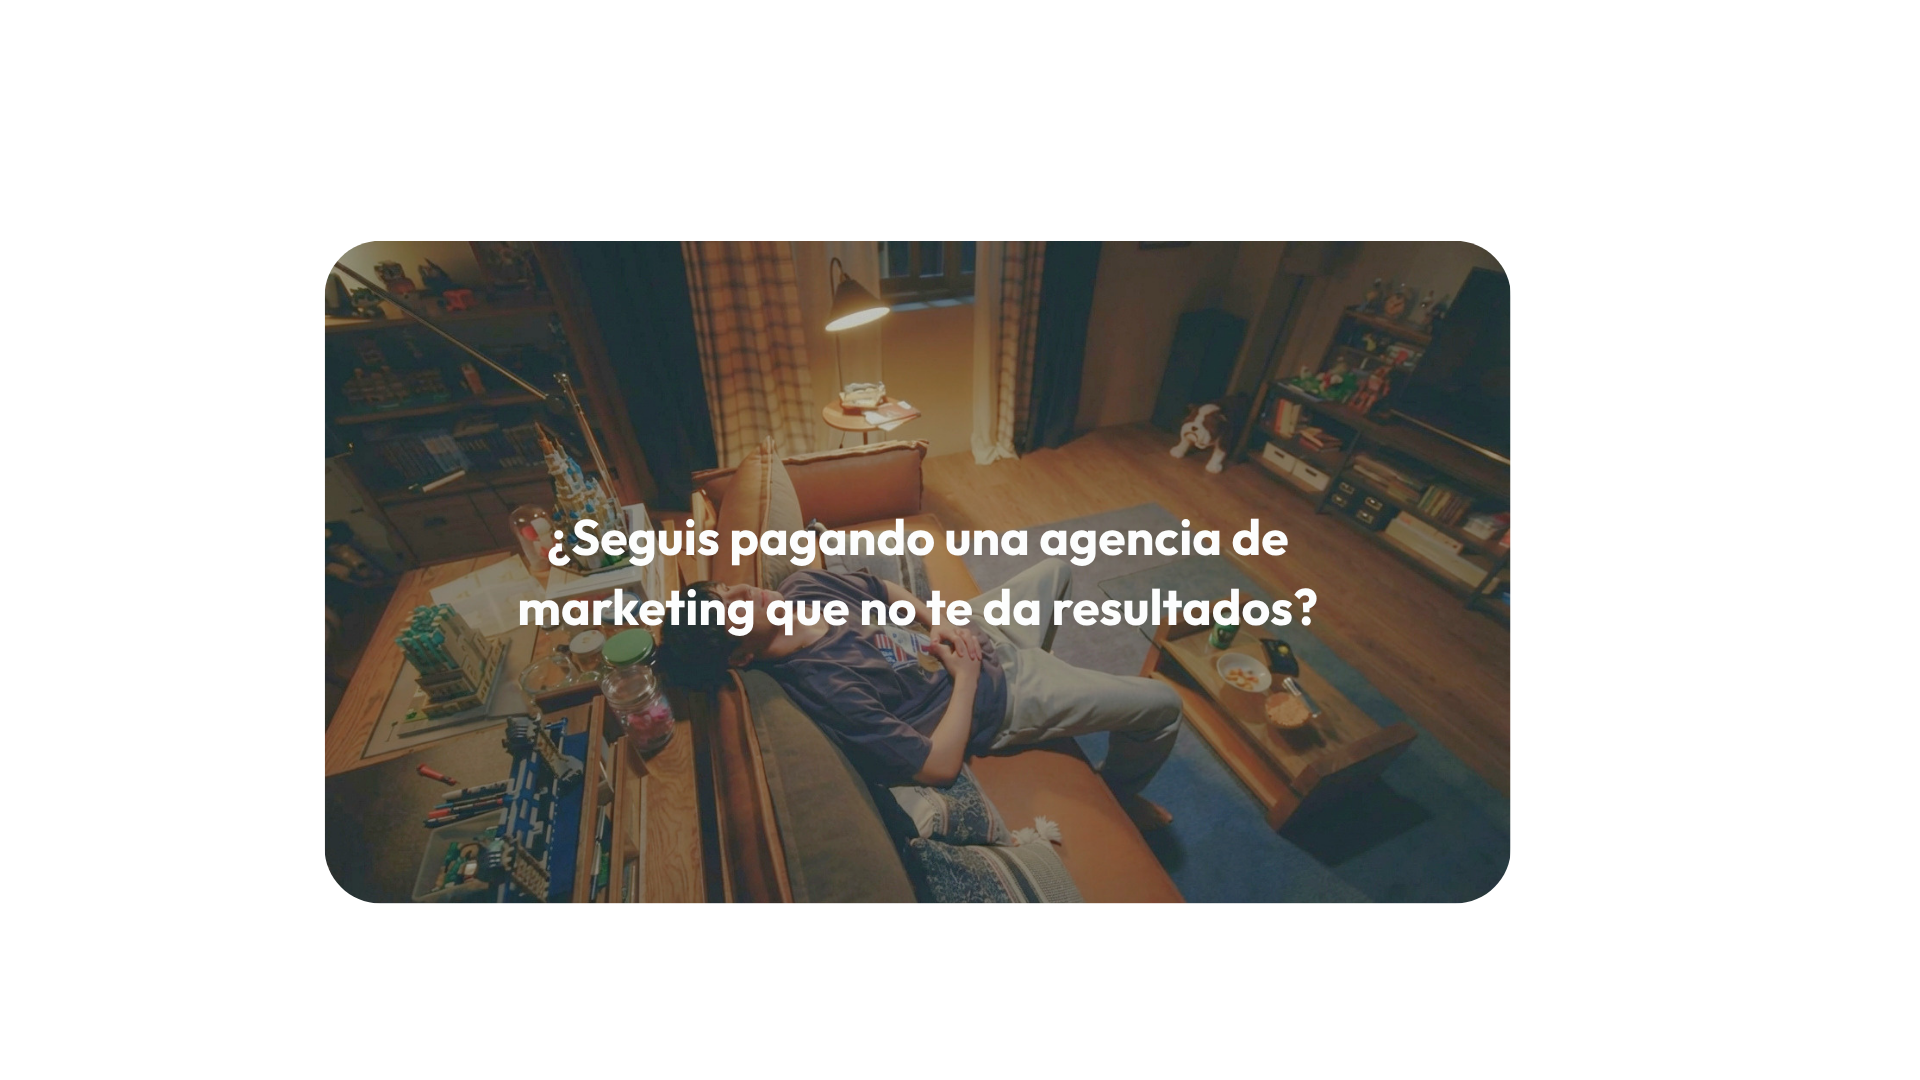
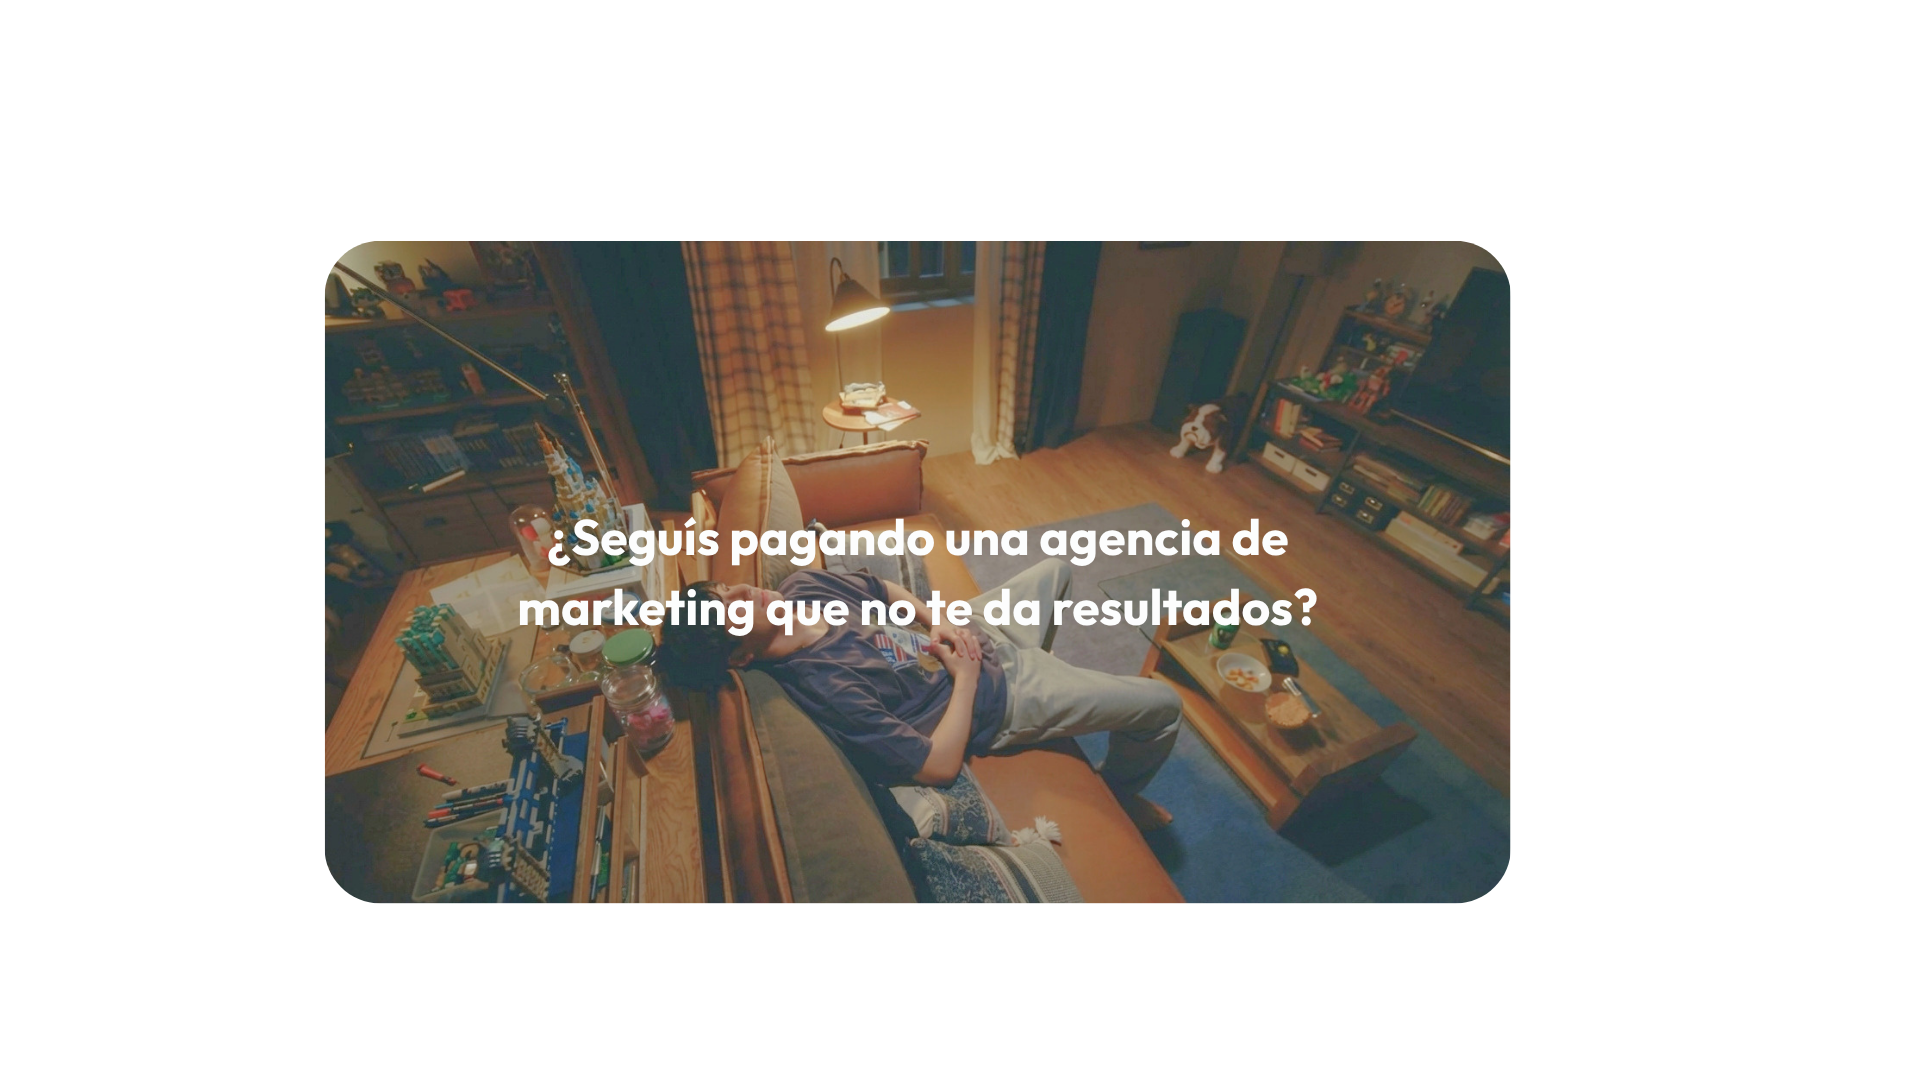
Mobile UI: larger problem cards, mobile-specific art, hero freeze
- Problem cards (Canva + Agencia): render distinct pre-baked images on
  mobile vs desktop. Mobile uses /card-1-mobile.png and /card-2-mobile.png
  (title baked into the image, no overlay) via md:hidden / hidden md:block.
  Desktop keeps the 16/9 photos with the title as a text overlay.
- Swap the sticky container from aspect-square with horizontal padding to
  aspect-[2/3] edge-to-edge (px-0 on mobile, px-6 from sm). On a 375-wide
  viewport the card goes from ~343x343 to ~375x562 — roughly 30% more
  pixels and a much stronger visual.
- Move the desktop +40px horizontal offset from an inline style to a
  md:translate-x-10 class so it no longer applies on mobile. The card now
  sits genuinely centered on narrow viewports.
- Hero video on mobile: pause 0.5s before the natural end in the
  onTimeUpdate handler so the final text frame stays on screen instead of
  fading to black. Desktop is unchanged.
- Also: replace card-2.png with a corrected-accent copy ("Seguís"), no
  layout implications.

diff --git a/frontend/src/app/page.tsx b/frontend/src/app/page.tsx
@@ -398,25 +398,36 @@ function ProblemCardsStack() {
       className="-mt-12 md:-mt-24"
       style={{ height: "200vh" }}
     >
-      <div className="sticky top-0 flex h-screen w-full items-center justify-center px-4 sm:px-6 md:px-3">
-        <div
-          className="relative w-full max-w-[1800px]"
-          style={{ transform: "translateX(40px)" }}
-        >
-          {/* ── Card 1 (Canva) ── */}
+      <div className="sticky top-0 flex h-screen w-full items-center justify-center px-0 sm:px-6 md:px-3">
+        <div className="relative w-full max-w-[1800px] md:translate-x-10">
+          {/* ── Card 1 (Canva) ──
+              Mobile uses a pre-baked image (title already rendered in the PNG);
+              desktop uses the clean photo + a text overlay. Both fill the same
+              motion.div so the scroll-linked scale still applies uniformly. */}
           <motion.div
             style={{ scale: card1Scale }}
-            className="relative z-10 aspect-square overflow-hidden rounded-[2rem] md:aspect-[16/9]"
+            className="relative z-10 aspect-[2/3] overflow-hidden rounded-[2rem] md:aspect-[16/9]"
           >
+            {/* Mobile (< md): title baked into the image, no overlay needed */}
+            <Image
+              src="/card-1-mobile.png"
+              alt="Cansado de gastar mil horas en Canva haciendo contenido para tu marca"
+              fill
+              sizes="100vw"
+              className="object-cover md:hidden"
+              priority
+            />
+            {/* Desktop (md+): clean photo, title rendered as an overlay */}
             <Image
               src="/card-canva.png"
               alt="Cansado de gastar mil horas en Canva haciendo contenido para tu marca"
               fill
               sizes="(max-width: 1800px) 100vw, 1800px"
-              className="object-cover"
+              className="hidden object-cover md:block"
               priority
             />
-            <div className="absolute inset-0 flex flex-col items-center justify-center gap-6 px-6 text-center sm:gap-8 md:gap-10">
+            {/* Text overlay — desktop only (mobile has it baked in) */}
+            <div className="absolute inset-0 hidden flex-col items-center justify-center gap-6 px-6 text-center sm:gap-8 md:flex md:gap-10">
               <div className="h-[22px] shrink-0" aria-hidden="true" />
               <h3 className="font-heading max-w-3xl translate-y-[5px] text-lg font-bold leading-[1.2] tracking-tight text-white sm:text-xl md:text-2xl lg:text-3xl xl:text-4xl">
                 ¿Cansado de gastar mil horas en Canva
@@ -439,17 +450,29 @@ function ProblemCardsStack() {
             </div>
           </motion.div>
 
-          {/* ── Card 2 — fully covers card 1, centered in screen ── */}
+          {/* ── Card 2 — fully covers card 1, centered in screen.
+              Mobile + desktop use different pre-baked images so the title
+              reads properly at each aspect ratio. */}
           <motion.div
             style={{ y: card2Y, opacity: card2Opacity }}
             className="absolute inset-0 z-20 overflow-hidden rounded-[2rem]"
           >
+            {/* Mobile (< md): taller 2/3 aspect, image sized for it */}
+            <Image
+              src="/card-2-mobile.png"
+              alt="Seguís pagando una agencia de marketing que no te da resultados"
+              fill
+              sizes="100vw"
+              className="object-cover md:hidden"
+              priority
+            />
+            {/* Desktop (md+): 16/9 aspect with the widescreen image */}
             <Image
               src="/card-2.png"
               alt="Seguís pagando una agencia de marketing que no te da resultados"
               fill
               sizes="(max-width: 1800px) 100vw, 1800px"
-              className="object-cover"
+              className="hidden object-cover md:block"
               priority
             />
           </motion.div>
@@ -1087,8 +1110,18 @@ export default function Home() {
             playsInline
             preload="auto"
             onTimeUpdate={(e) => {
-              if (e.currentTarget.currentTime >= 11 && !showHeroCTA) {
+              const video = e.currentTarget;
+              if (video.currentTime >= 11 && !showHeroCTA) {
                 setShowHeroCTA(true);
+              }
+              // On mobile, pause 0.5s before the natural end so the final
+              // text frame stays visible (otherwise it fades out).
+              if (
+                isMobile &&
+                video.duration &&
+                video.currentTime >= video.duration - 0.5
+              ) {
+                video.pause();
               }
             }}
             className="absolute inset-0 h-full w-full object-cover"
